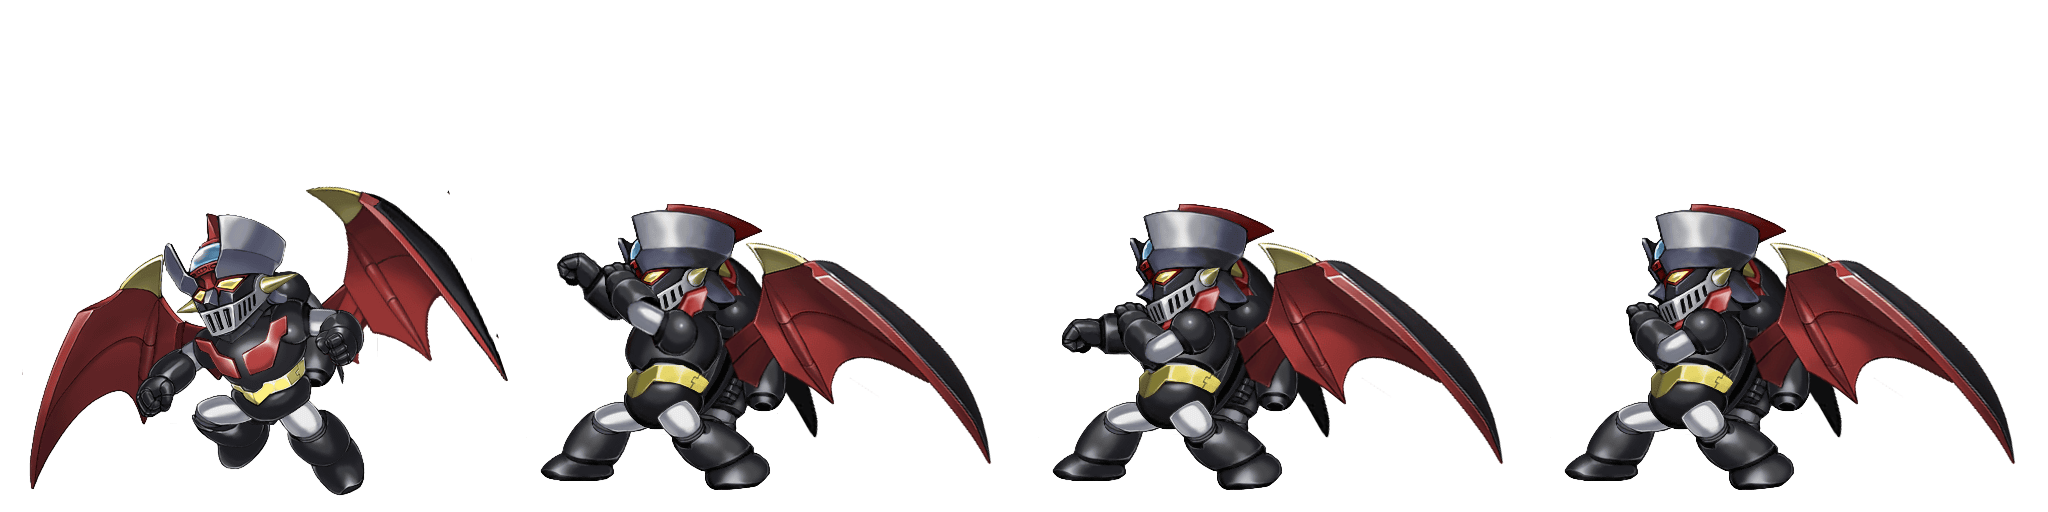
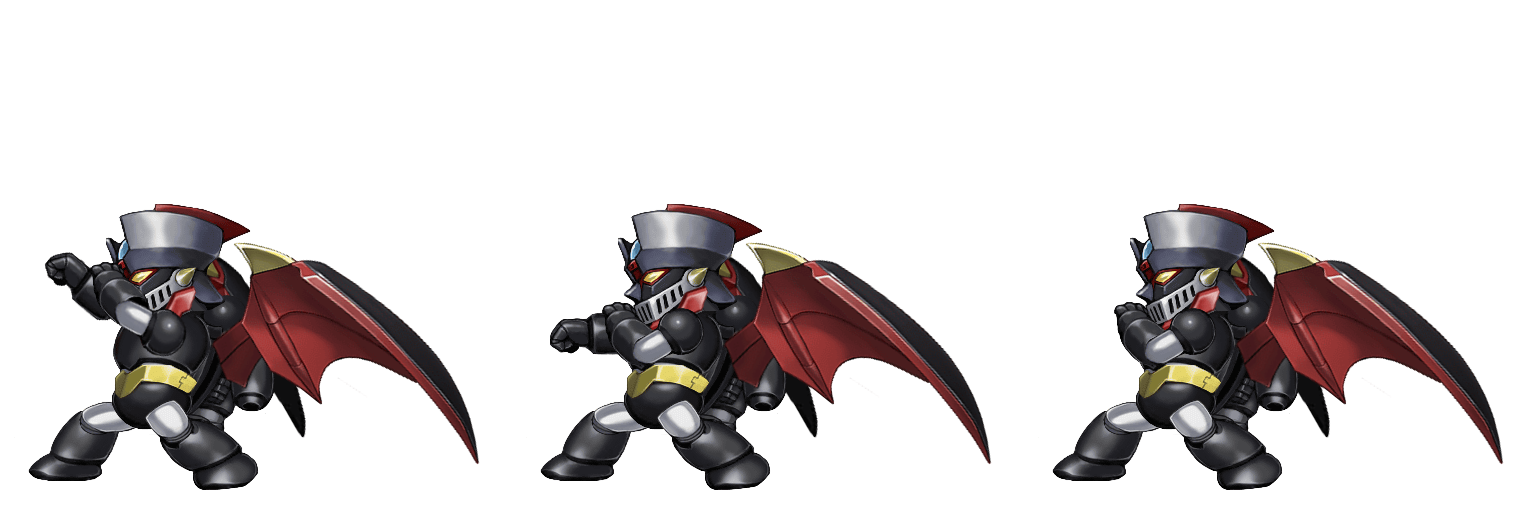
new images
Added new images and animations for Mazinger Z

diff --git a/js/plugins/config/default/BattleSongs.conf.js b/js/plugins/config/default/BattleSongs.conf.js
@@ -1,6 +1,6 @@
 $SRWConfig.battleSongs = {
 	actorSongMapping: {
-		1: "Battle1",
+		1: "MazingerGuardian",
 		3: "Battle1"
 	},
 	enemySongMapping: {
